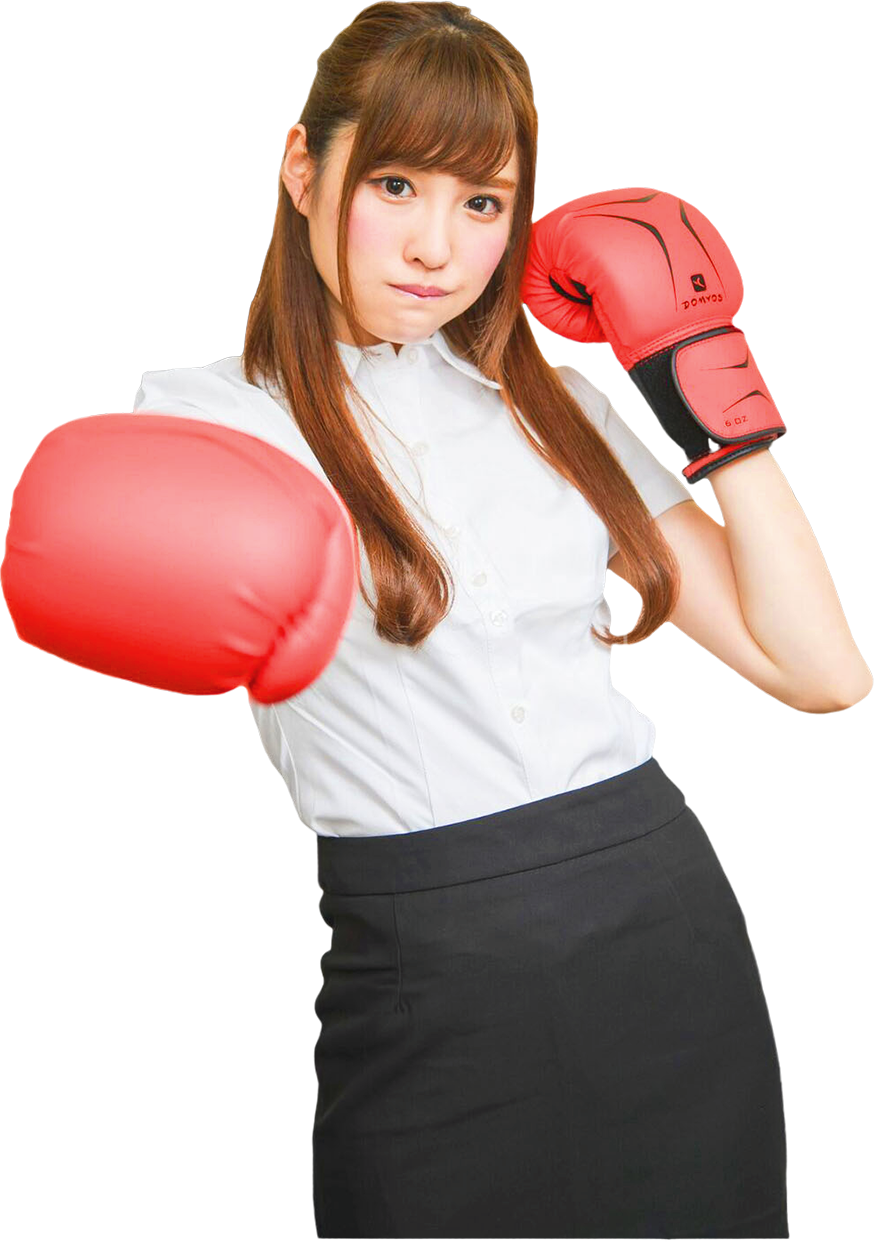
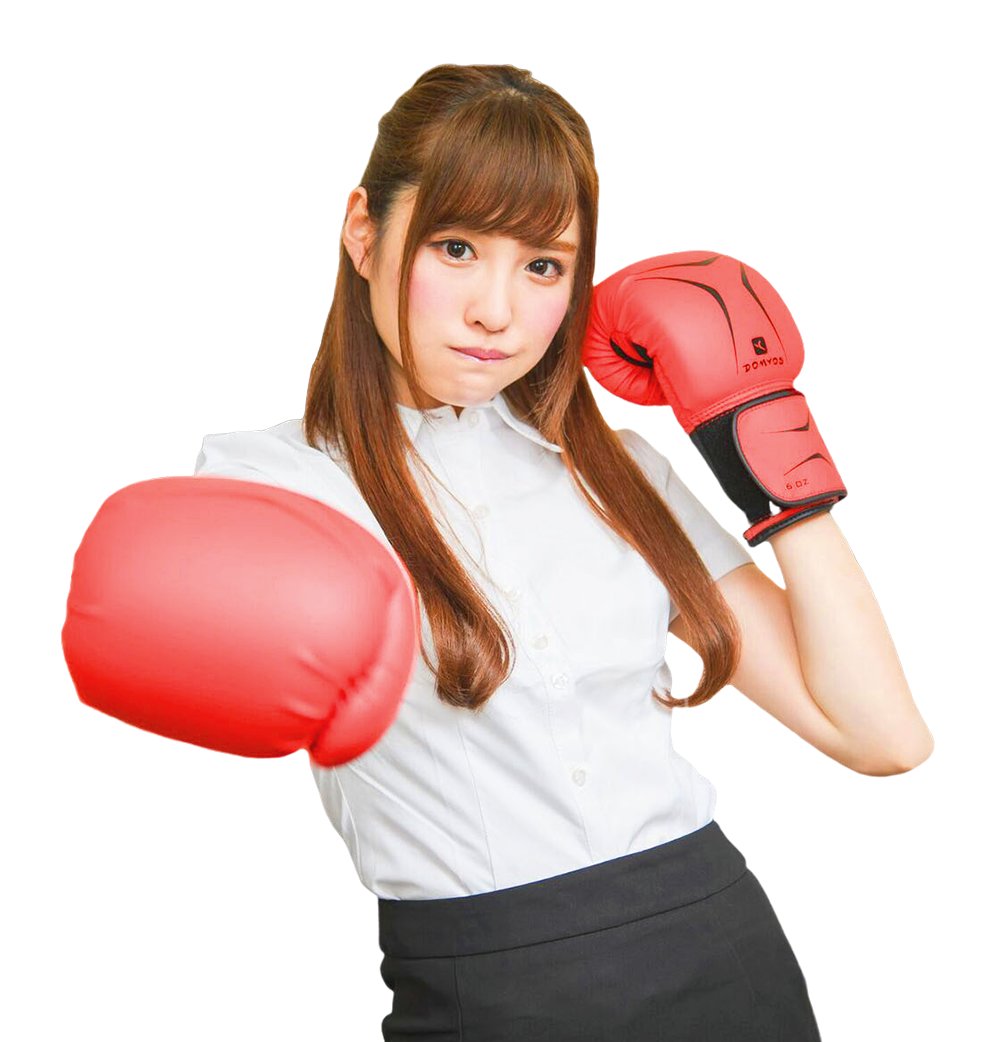
add new img

diff --git a/css/style.css b/css/style.css
@@ -21,12 +21,12 @@ body {
 h1, h2, h3, h4, h5, h6, p {
     margin: 0px;
     padding: 0px;
-    line-height: 150%;
+    line-height: 110%;
     color: #fff;
     font-family: 'Montserrat', sans-serif,'Microsoft JhengHei';
 }
 p{
-    font-size:3.5vmin;
+    font-size:2.2vmin;
 }
 ul, ol {
     list-style: none;
@@ -111,6 +111,7 @@ header .row{
 }
  .navbar-brand {
     float: left;
+    max-width: 35%;
     padding: 1% 0 0 5%;
 }
 /*
@@ -251,25 +252,34 @@ header .row{
     padding-bottom:0;
 }
 #game .container{
-    
+    width:85%;
     max-width: 2050px;
 }
 .game-left{
-    margin-top: -5%;
+    position : relative;
+    margin-top: 0;
 }
 .game-right{
-    margin-top: -3.5%;
+    position : relative;
+    margin-top: -3%;
 }
-.game-left div{
-    margin-top:50px;
+.play-a-game, .win-and-get, .win-code{
+    margin-top:10%;
 }
 #game .col-sm-12{
     position: relative;
     height: 650px;
 }
+.play-a-game{
+    padding:0 10%;
+}
+.play-a-game h5{
+    
+    font-size: 1.7vw;
+}
 .cta{
-    width:30%;
-    padding:0 10px;
+    width:31%;
+    padding:0;
     border: none;
     background-color: #222;
 }
@@ -283,7 +293,8 @@ header .row{
 }
 
 .win-code p{
-    font-size:1.5vw;
+    font-size:1.1vw;
+    padding-top:5%;
 }
 .win-code div{
     background:rgba(131, 131, 131, 0.808); 
@@ -297,9 +308,12 @@ header .row{
     margin:0 auto;
 }
 .game-img img{
-    margin-top: 25%;
+    position: absolute;
+    transform: translate(-50%, 0);
+    top:0;
+    margin-top: 0;
     width:auto;
-    z-index:1;
+    z-index:0;
 }
 
 
@@ -319,12 +333,12 @@ header .row{
 }
 .win-number p{
     display:inline-block;
-    font-size: 2em;
+    font-size: 4vw;
 }
 .play-history, .prize-history{
     margin-top:5%;
 }
-.play-history p, .prize-history p{
+.play-history div p, .prize-history div p{
     line-height: 150%;
 }
 .play-history div, .prize-history div{
@@ -379,7 +393,6 @@ header .row{
     z-index:2;
 }
 .model1 img{
-    width: 190%;
 }
 .model2 img{
     width: 100%;
@@ -490,7 +503,8 @@ header .row{
         height: 105%;
     }
     .game-img img{
-        height:50%;
+        height:80%;
+        left:70%;
     }
 }
 
@@ -499,7 +513,8 @@ header .row{
         height: 105%;
     }
     .game-img img{
-        height:60%;
+        height:80%;
+        left:70%;
     }
     .play-history p, .prize-history p {
         font-size: 1.4vw;
@@ -508,39 +523,40 @@ header .row{
 
 @media (min-width: 1020px) {
     #game{
-        height: 730px;
+        height: 570px;
     }
     .game-img img{
-        height:55%;
-        margin-left:-10%;
+        height:80%;
+        left:55%;
     }
     .play-history p, .prize-history p {
-        font-size: 1.35vw;
+        font-size: 1vw;
     }
 }
 
 @media (min-width: 1250px) {
     #game{
-        height: 820px;
+        height: 655px;
     }
     .game-img img{
-        height:57%;
+        height:90%;
+        left:55%;
     }
     .play-history p, .prize-history p {
-        font-size: 1.3vw;
+        font-size: 1vw;
     }
 }
 
 @media (min-width: 1900px) {
     #game{
-        height: 105%;
+        height: 870px;
     }
     .game-img img{
-        height:75%;
-        margin-left:-10%;
+        height:120%;
+        left:55%;
     }
     .play-history p, .prize-history p {
-        font-size: 1.25vw;
+        font-size: 0.9vw;
     }
-}
+
 }

diff --git a/js/ethereum.js b/js/ethereum.js
@@ -390,14 +390,14 @@ infoContract.getPastEvents("Random",{filter:{from:userAccount},fromBlock:0,toBlo
 
       var PlayerNumber = jQuery.i18n.prop('PlayerNumber');
       var ComputerNumber = jQuery.i18n.prop('ComputerNumber');
-      $("#lottery0").html(PlayerNumber + random_player + ComputerNumber + random_lottery+"<br>");
+      $("#lottery0").html(PlayerNumber + random_player + "<br>"+ ComputerNumber + random_lottery+"<br>");
       if (length < 2){
       $("#lottery").html("No record");
       } else{
         var event_last = events[length-2]
         var random_player = event_last.returnValues.random_player;
         var random_lottery = event_last.returnValues.random_lottery;
-        $("#lottery").html(PlayerNumber + random_player + ComputerNumber + random_lottery+"<br>");
+        $("#lottery").html(PlayerNumber + random_player +"<br>"+ ComputerNumber + random_lottery+"<br>");
 
         for(var i=3; i<history_amout+2; i++){
           if(length-i<0){
@@ -408,7 +408,7 @@ infoContract.getPastEvents("Random",{filter:{from:userAccount},fromBlock:0,toBlo
           var random_player = event_last.returnValues.random_player;
           var random_lottery = event_last.returnValues.random_lottery;
           
-          $("#lottery").append(PlayerNumber + random_player + ComputerNumber + random_lottery+"<br>");
+          $("#lottery").append(PlayerNumber + random_player + "<br>"+ ComputerNumber + random_lottery+"<br>");
         }
       }
     }

diff --git a/index2.php b/index2.php
@@ -346,15 +346,7 @@
 
 
 <script>
-    $(function(){
-        var width = $(this).width();
-        if(width<1150){
-            $(".navbar-brand01").hide();
-            $(".navbar-brand02").show();
 
-        }
-        
-    });
 </script>
 
 </body>
